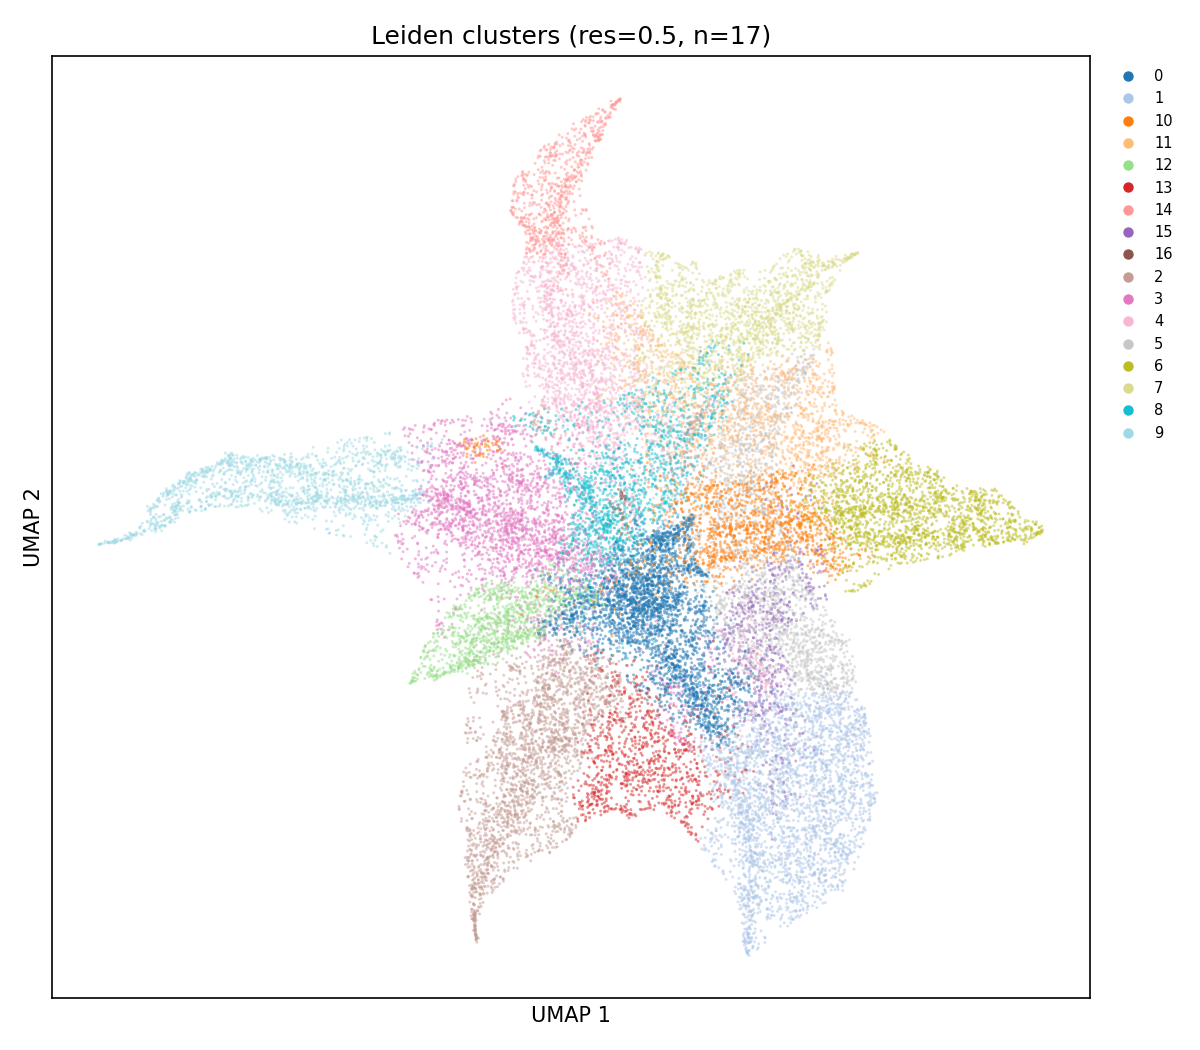
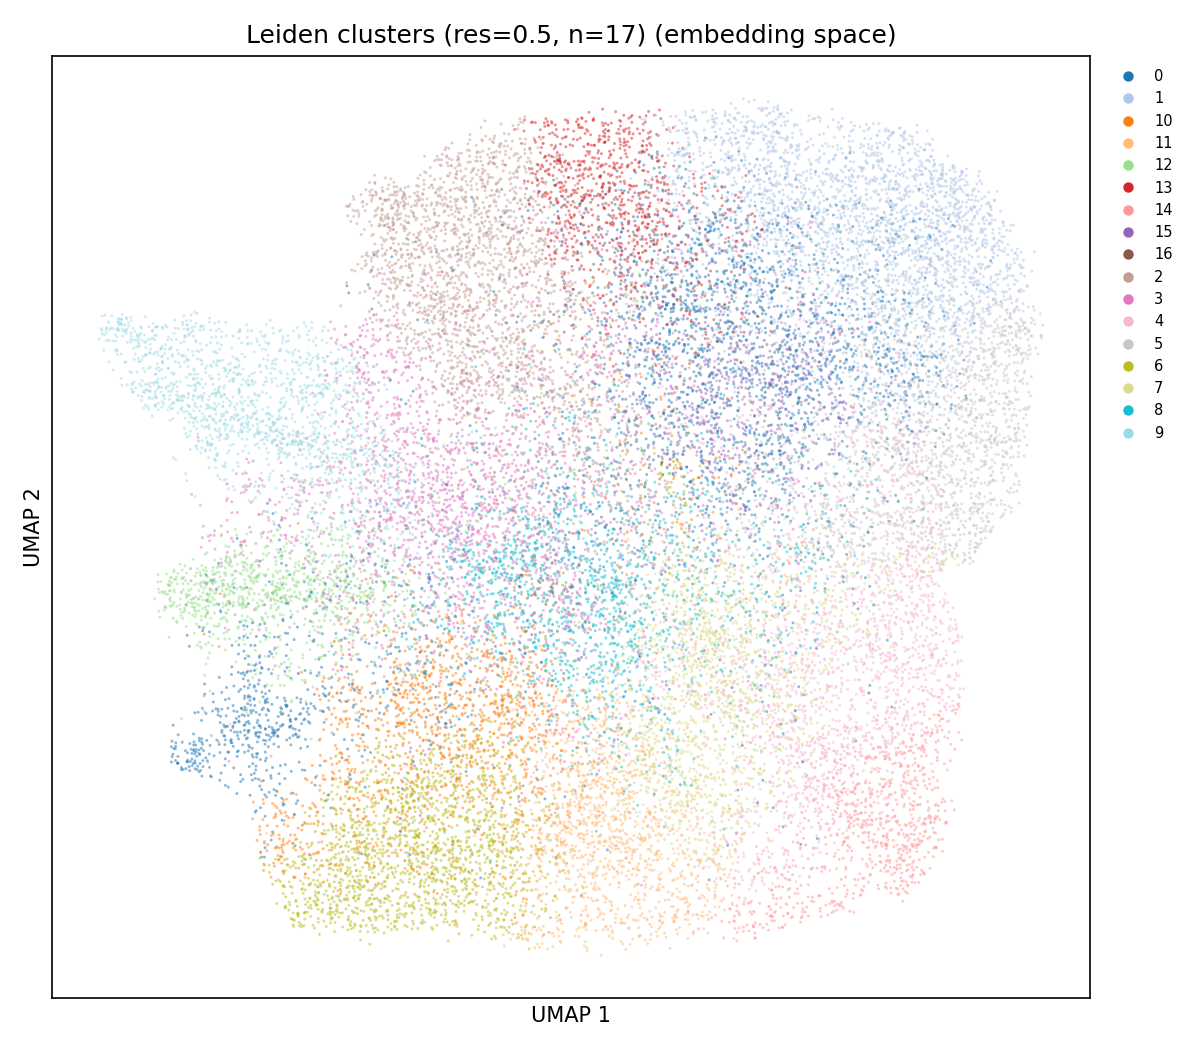
Fix marker attribution UMAP alignment; save backbone features in npz
marker_attribution.py: also extract and save backbone features [N, D]
alongside attribution matrix so cluster_attribution.py can compute UMAP
from the same cells in the same order (fixes label/coord mismatch).

cluster_attribution.py: use saved features for embedding-space UMAP
when available; fall back to attribution-space UMAP otherwise. Remove
broken --umap_embeddings approach (different DataLoader ordering).

Changed region(s): [[0.0925, 0.0914, 0.8633, 0.9143], [0.2158, 0.0, 0.74, 0.061]]

diff --git a/tools/cluster_attribution.py b/tools/cluster_attribution.py
@@ -7,17 +7,33 @@ produces interpretable outputs — all without using ground-truth labels.
 
 Labels stored in attribution.npz are only used for validation plots.
 
+Optionally accepts --val_results (path to val_results.npz from the training
+run) to project cells onto the *original embedding UMAP* rather than the
+attribution-space UMAP. Use --ignore / --annotation_map to match the same
+filtering applied in marker_attribution.py so cell counts align.
+
 Usage:
+    # Attribution-space UMAP (default)
     python tools/cluster_attribution.py \\
         --attribution /nobackup/.../marker_attribution/CODEX_cHL_CIM_Funnel/attribution.npz \\
         --out         /nobackup/.../marker_attribution/CODEX_cHL_CIM_Funnel/clusters \\
         --resolution  0.5
 
+    # Original embedding UMAP coloured by marker attribution
+    python tools/cluster_attribution.py \\
+        --attribution  /nobackup/.../marker_attribution/CODEX_cHL_CIM_Funnel/attribution.npz \\
+        --val_results  /nobackup/.../paper_clean/CODEX_cHL/CIM_Funnel_Large/val_results.npz \\
+        --ignore       "Seg Artifact,Unidentified,Other" \\
+        --annotation_map "Cytotoxic CD8:CD8,TReg:Treg" \\
+        --out          /nobackup/.../marker_attribution/CODEX_cHL_CIM_Funnel/clusters_embUMAP \\
+        --resolution   0.5
+
 Outputs:
-    umap_clusters.png     — UMAP coloured by Leiden cluster
-    umap_groundtruth.png  — UMAP coloured by ground-truth label (validation)
-    heatmap.png           — mean attribution per cluster × marker
-    clusters.npz          — cluster assignments + UMAP coords
+    umap_clusters.png          — UMAP coloured by Leiden cluster
+    umap_groundtruth.png       — UMAP coloured by ground-truth label (validation)
+    heatmap.png                — mean attribution per cluster × marker
+    umap_marker_influence.png  — grid: one panel per marker coloured by IG attribution
+    clusters.npz               — cluster assignments + UMAP coords
 """
 
 import argparse
@@ -143,6 +159,7 @@ def plot_marker_panels(attr_matrix, marker_names, coords, out_path, percentile=9
     print(f'  Saved {out_path}')
 
 
+
 def print_cluster_summary(attr_matrix, marker_names, cluster_labels, gt_labels):
     clusters = sorted(set(cluster_labels), key=lambda x: int(x))
     print('\n── Cluster summary ──────────────────────────────────────────────')
@@ -166,12 +183,12 @@ def print_cluster_summary(attr_matrix, marker_names, cluster_labels, gt_labels):
 
 def parse_args():
     p = argparse.ArgumentParser()
-    p.add_argument('--attribution', required=True, help='Path to attribution.npz')
-    p.add_argument('--out',         required=True)
-    p.add_argument('--resolution',  type=float, default=0.5,
+    p.add_argument('--attribution',    required=True, help='Path to attribution.npz')
+    p.add_argument('--out',            required=True)
+    p.add_argument('--resolution',     type=float, default=0.5,
                    help='Leiden resolution — higher = more clusters')
-    p.add_argument('--n_neighbors', type=int,   default=15)
-    p.add_argument('--n_pcs',       type=int,   default=20,
+    p.add_argument('--n_neighbors',    type=int,   default=15)
+    p.add_argument('--n_pcs',          type=int,   default=20,
                    help='PCA dims before KNN (0 = skip PCA, use raw attribution)')
     return p.parse_args()
 
@@ -211,22 +228,33 @@ def main():
     print(f'  Found {n_clusters} clusters')
 
     # ── UMAP ──────────────────────────────────────────────────────────────
-    print('Computing UMAP...')
-    sc.tl.umap(adata)
-    coords = adata.obsm['X_umap']
+    d_attr = np.load(args.attribution, allow_pickle=True)
+    if 'features' in d_attr:
+        print('Computing UMAP from backbone features (embedding space)...')
+        features = d_attr['features'].astype(np.float32)
+        adata_emb = ad.AnnData(X=features)
+        sc.pp.neighbors(adata_emb, n_neighbors=15, use_rep='X', metric='cosine')
+        sc.tl.umap(adata_emb)
+        coords = adata_emb.obsm['X_umap']
+        umap_title_suffix = '(embedding space)'
+    else:
+        print('Computing UMAP from attribution space (no features in npz)...')
+        sc.tl.umap(adata)
+        coords = adata.obsm['X_umap']
+        umap_title_suffix = '(attribution space)'
 
     cluster_labels = adata.obs['leiden'].values.astype(str)
 
     plot_umap(coords, cluster_labels,
-              title=f'Leiden clusters (res={args.resolution}, n={n_clusters})',
+              title=f'Leiden clusters (res={args.resolution}, n={n_clusters}) {umap_title_suffix}',
               out_path=out / 'umap_clusters.png')
 
     plot_umap(coords, labels,
-              title='Ground-truth labels (validation only)',
+              title=f'Ground-truth labels {umap_title_suffix}',
               out_path=out / 'umap_groundtruth.png')
 
     plot_umap(coords, sample_ids,
-              title='Sample IDs',
+              title=f'Sample IDs {umap_title_suffix}',
               out_path=out / 'umap_samples.png')
 
     # ── Heatmap ───────────────────────────────────────────────────────────

diff --git a/tools/marker_attribution.py b/tools/marker_attribution.py
@@ -240,25 +240,33 @@ def main():
     )
 
     # ── Compute IG ─────────────────────────────────────────────────────────
-    all_attr, all_labels, all_sids = [], [], []
+    all_attr, all_feats, all_labels, all_sids = [], [], [], []
     n_done = 0
 
     for imgs, labels, sids in tqdm(loader, desc='IG'):
         if args.max_cells and n_done >= args.max_cells:
             break
-        attr = ig_batch(backbone, imgs.to(device), args.n_steps)
+        imgs_gpu = imgs.to(device)
+        with torch.no_grad():
+            feats = backbone(imgs_gpu)[0]          # [B, D, 1, 1] or [B, D]
+            feats = feats.flatten(1).cpu().numpy() # [B, D]
+        attr = ig_batch(backbone, imgs_gpu, args.n_steps)
         all_attr.append(attr.numpy())
+        all_feats.append(feats)
         all_labels.extend(labels)
         all_sids.extend(sids)
         n_done += len(labels)
 
-    attr_matrix = np.concatenate(all_attr, axis=0)  # [N, n_markers]
+    attr_matrix = np.concatenate(all_attr,  axis=0)  # [N, n_markers]
+    feat_matrix = np.concatenate(all_feats, axis=0)  # [N, D]
     print(f'\nAttribution matrix: {attr_matrix.shape}')
+    print(f'Feature matrix:     {feat_matrix.shape}')
 
     # ── Save ───────────────────────────────────────────────────────────────
     np.savez_compressed(
         out / 'attribution.npz',
         attribution  = attr_matrix,
+        features     = feat_matrix,
         labels       = np.array(all_labels),
         sample_ids   = np.array(all_sids),
         marker_names = np.array(marker_names),
